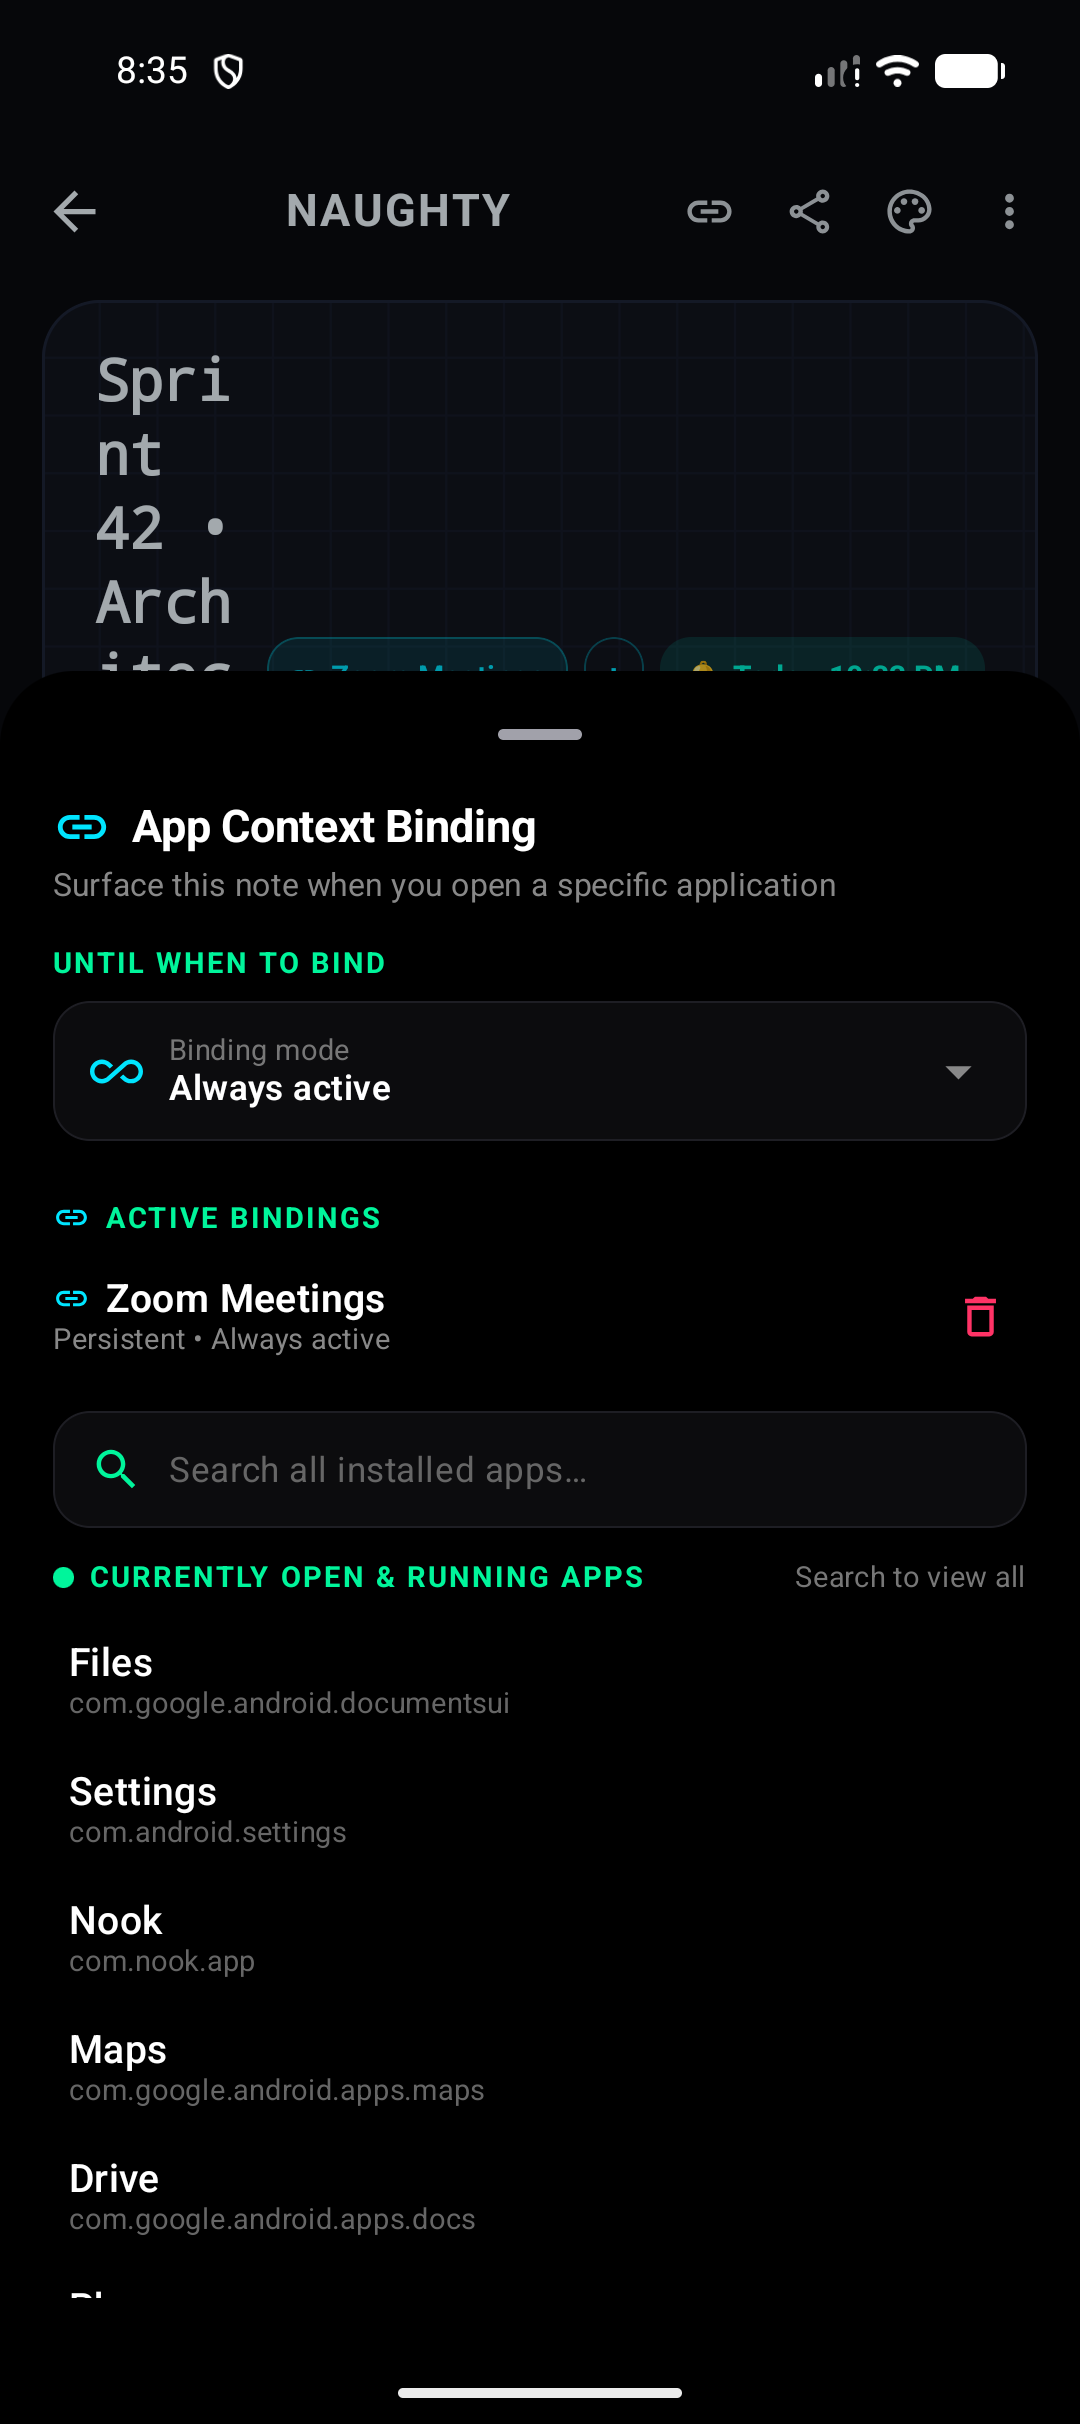
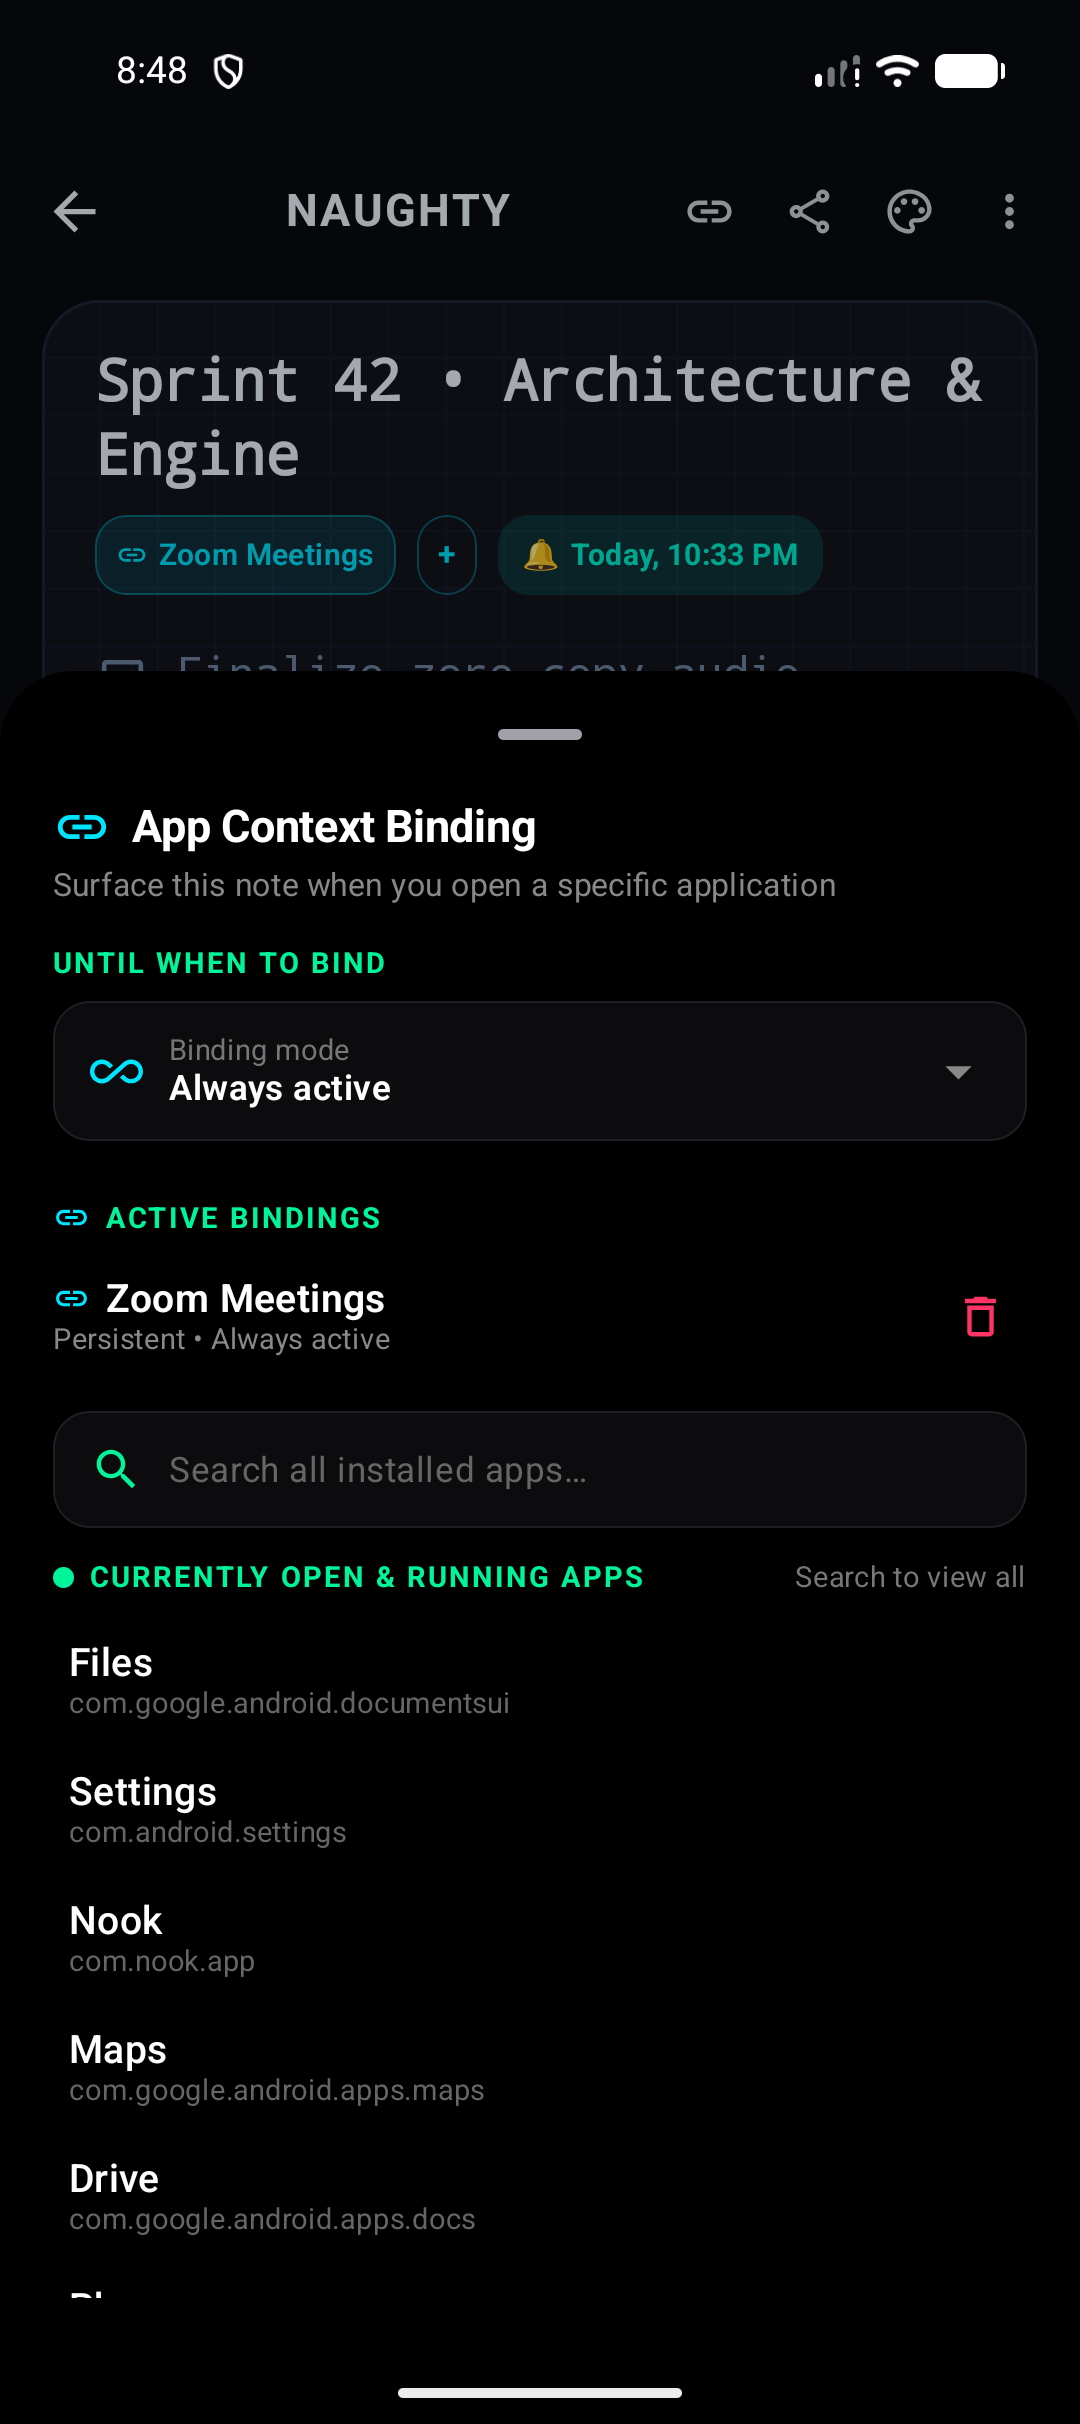
fix(ui): prevent note title squishing with action chips in editor

diff --git a/app/src/main/java/com/example/naughty/ui/editor/NoteEditorScreen.kt b/app/src/main/java/com/example/naughty/ui/editor/NoteEditorScreen.kt
@@ -799,53 +799,77 @@ fun NoteEditorScreen(
                             Column(
                                 modifier = Modifier.padding(horizontal = 20.dp, vertical = 18.dp)
                             ) {
-                            // Title with watercolor highlight & Tag Chip on right
-                            Row(
-                                modifier = Modifier.fillMaxWidth(),
-                                horizontalArrangement = Arrangement.SpaceBetween,
-                                verticalAlignment = Alignment.CenterVertically
-                            ) {
-                                Box(modifier = Modifier.weight(1f)) {
-                                    BasicTextField(
-                                        value = uiState.title,
-                                        onValueChange = { viewModel.updateTitle(it) },
-                                        textStyle = TextStyle(
-                                            fontFamily = currentTheme.titleFontFamily,
-                                            fontWeight = FontWeight.SemiBold,
-                                            fontSize = 22.sp,
-                                            lineHeight = 28.sp,
-                                            color = currentTheme.textPrimary
-                                        ),
-                                        cursorBrush = SolidColor(currentTheme.cursorColor),
-                                        modifier = Modifier.fillMaxWidth(),
-                                        decorationBox = { innerTextField ->
-                                            if (uiState.title.isEmpty()) {
-                                                Text(
-                                                    text = "Headline",
-                                                    fontFamily = currentTheme.titleFontFamily,
-                                                    fontSize = 22.sp,
-                                                    fontWeight = FontWeight.SemiBold,
-                                                    color = currentTheme.textSecondary.copy(alpha = 0.45f)
-                                                )
-                                            }
-                                            innerTextField()
+                                // Title with watercolor highlight
+                                BasicTextField(
+                                    value = uiState.title,
+                                    onValueChange = { viewModel.updateTitle(it) },
+                                    textStyle = TextStyle(
+                                        fontFamily = currentTheme.titleFontFamily,
+                                        fontWeight = FontWeight.SemiBold,
+                                        fontSize = 22.sp,
+                                        lineHeight = 28.sp,
+                                        color = currentTheme.textPrimary
+                                    ),
+                                    cursorBrush = SolidColor(currentTheme.cursorColor),
+                                    modifier = Modifier.fillMaxWidth(),
+                                    decorationBox = { innerTextField ->
+                                        if (uiState.title.isEmpty()) {
+                                            Text(
+                                                text = "Headline",
+                                                fontFamily = currentTheme.titleFontFamily,
+                                                fontSize = 22.sp,
+                                                fontWeight = FontWeight.SemiBold,
+                                                color = currentTheme.textSecondary.copy(alpha = 0.45f)
+                                            )
                                         }
-                                    )
-                                }
+                                        innerTextField()
+                                    }
+                                )
 
-                                Spacer(modifier = Modifier.width(8.dp))
-
-                                // Bound Apps Section: display all bound apps with modern link icon
+                                // Bound Apps Section & Reminder Chip: displayed neatly underneath title
                                 val boundApps = uiState.boundApps
-                                Row(
-                                    horizontalArrangement = Arrangement.spacedBy(6.dp),
-                                    verticalAlignment = Alignment.CenterVertically
-                                ) {
-                                    if (boundApps.isNotEmpty()) {
-                                        boundApps.forEach { appName ->
+                                val hasReminder = uiState.reminderTime != null && uiState.reminderTime!! > System.currentTimeMillis()
+                                if (boundApps.isNotEmpty() || hasReminder) {
+                                    Spacer(modifier = Modifier.height(10.dp))
+                                    Row(
+                                        modifier = Modifier.fillMaxWidth(),
+                                        horizontalArrangement = Arrangement.spacedBy(8.dp),
+                                        verticalAlignment = Alignment.CenterVertically
+                                    ) {
+                                        if (boundApps.isNotEmpty()) {
+                                            boundApps.forEach { appName ->
+                                                Surface(
+                                                    shape = RoundedCornerShape(12.dp),
+                                                    color = ElectricCyan.copy(alpha = 0.12f),
+                                                    border = BorderStroke(0.6.dp, ElectricCyan.copy(alpha = 0.35f)),
+                                                    modifier = Modifier
+                                                        .clip(RoundedCornerShape(12.dp))
+                                                        .clickable { onBindingClick() }
+                                                ) {
+                                                    Row(
+                                                        modifier = Modifier.padding(horizontal = 8.dp, vertical = 4.dp),
+                                                        verticalAlignment = Alignment.CenterVertically
+                                                    ) {
+                                                        Icon(
+                                                            imageVector = Icons.Outlined.Link,
+                                                            contentDescription = null,
+                                                            tint = ElectricCyan,
+                                                            modifier = Modifier.size(12.dp)
+                                                        )
+                                                        Spacer(modifier = Modifier.width(4.dp))
+                                                        Text(
+                                                            text = appName,
+                                                            fontSize = 11.5.sp,
+                                                            fontWeight = FontWeight.SemiBold,
+                                                            color = ElectricCyan
+                                                        )
+                                                    }
+                                                }
+                                            }
+                                            // Additional + chip to add more bindings
                                             Surface(
                                                 shape = RoundedCornerShape(12.dp),
-                                                color = ElectricCyan.copy(alpha = 0.12f),
+                                                color = Color.Transparent,
                                                 border = BorderStroke(0.6.dp, ElectricCyan.copy(alpha = 0.35f)),
                                                 modifier = Modifier
                                                     .clip(RoundedCornerShape(12.dp))
@@ -855,82 +879,53 @@ fun NoteEditorScreen(
                                                     modifier = Modifier.padding(horizontal = 8.dp, vertical = 4.dp),
                                                     verticalAlignment = Alignment.CenterVertically
                                                 ) {
-                                                    Icon(
-                                                        imageVector = Icons.Outlined.Link,
-                                                        contentDescription = null,
-                                                        tint = ElectricCyan,
-                                                        modifier = Modifier.size(12.dp)
-                                                    )
+                                                    Text("+", fontSize = 12.sp, color = ElectricCyan, fontWeight = FontWeight.Bold)
+                                                }
+                                            }
+                                        }
+
+                                        // Note-level reminder badge chip
+                                        if (hasReminder) {
+                                            val noteReminder = remember(uiState.reminderTime) {
+                                                InlineReminder(
+                                                    rawTag = "",
+                                                    displayText = InlineReminderParser.formatTimestamp(uiState.reminderTime!!),
+                                                    timestampMillis = uiState.reminderTime!!,
+                                                    startIndex = 0,
+                                                    endIndex = 0
+                                                )
+                                            }
+                                            Surface(
+                                                shape = RoundedCornerShape(12.dp),
+                                                color = currentTheme.accent.copy(alpha = 0.14f),
+                                                modifier = Modifier
+                                                    .clip(RoundedCornerShape(12.dp))
+                                                    .clickable {
+                                                        activeSelectionContext = null
+                                                        reminderTargetBlockId = null
+                                                        reminderInitialText = uiState.title.ifBlank { "" }
+                                                        reminderInitialTime = uiState.reminderTime
+                                                        isEditingNoteReminder = true
+                                                        showReminderSheet = true
+                                                    }
+                                            ) {
+                                                Row(
+                                                    modifier = Modifier.padding(horizontal = 9.dp, vertical = 4.dp),
+                                                    verticalAlignment = Alignment.CenterVertically
+                                                ) {
+                                                    Text("🔔", fontSize = 11.5.sp)
                                                     Spacer(modifier = Modifier.width(4.dp))
                                                     Text(
-                                                        text = appName,
+                                                        text = noteReminder.displayText,
                                                         fontSize = 11.5.sp,
-                                                        fontWeight = FontWeight.SemiBold,
-                                                        color = ElectricCyan
+                                                        fontWeight = FontWeight.Bold,
+                                                        color = currentTheme.accent
                                                     )
                                                 }
-                                            }
-                                        }
-                                        // Additional + chip to add more bindings
-                                        Surface(
-                                            shape = RoundedCornerShape(12.dp),
-                                            color = Color.Transparent,
-                                            border = BorderStroke(0.6.dp, ElectricCyan.copy(alpha = 0.35f)),
-                                            modifier = Modifier
-                                                .clip(RoundedCornerShape(12.dp))
-                                                .clickable { onBindingClick() }
-                                        ) {
-                                            Row(
-                                                modifier = Modifier.padding(horizontal = 8.dp, vertical = 4.dp),
-                                                verticalAlignment = Alignment.CenterVertically
-                                            ) {
-                                                Text("+", fontSize = 12.sp, color = ElectricCyan, fontWeight = FontWeight.Bold)
-                                            }
-                                        }
-                                    }
-
-                                    // Note-level reminder badge chip
-                                    if (uiState.reminderTime != null && uiState.reminderTime!! > System.currentTimeMillis()) {
-                                        val noteReminder = remember(uiState.reminderTime) {
-                                            InlineReminder(
-                                                rawTag = "",
-                                                displayText = InlineReminderParser.formatTimestamp(uiState.reminderTime!!),
-                                                timestampMillis = uiState.reminderTime!!,
-                                                startIndex = 0,
-                                                endIndex = 0
-                                            )
-                                        }
-                                        Surface(
-                                            shape = RoundedCornerShape(12.dp),
-                                            color = currentTheme.accent.copy(alpha = 0.14f),
-                                            modifier = Modifier
-                                                .clip(RoundedCornerShape(12.dp))
-                                                .clickable {
-                                                    activeSelectionContext = null
-                                                    reminderTargetBlockId = null
-                                                    reminderInitialText = uiState.title.ifBlank { "" }
-                                                    reminderInitialTime = uiState.reminderTime
-                                                    isEditingNoteReminder = true
-                                                    showReminderSheet = true
-                                                }
-                                        ) {
-                                            Row(
-                                                modifier = Modifier.padding(horizontal = 9.dp, vertical = 4.dp),
-                                                verticalAlignment = Alignment.CenterVertically
-                                            ) {
-                                                Text("🔔", fontSize = 11.5.sp)
-                                                Spacer(modifier = Modifier.width(4.dp))
-                                                Text(
-                                                    text = noteReminder.displayText,
-                                                    fontSize = 11.5.sp,
-                                                    fontWeight = FontWeight.Bold,
-                                                    color = currentTheme.accent
-                                                )
                                             }
                                         }
                                     }
                                 }
-                            }
 
                             Spacer(modifier = Modifier.height(16.dp))
 
